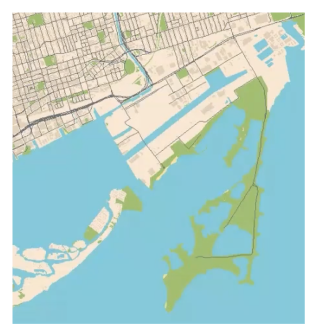
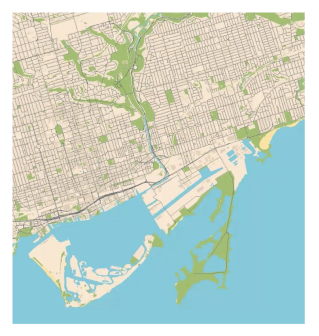
when in rome do as the romans do

diff --git a/src/project-mapping.html b/src/project-mapping.html
@@ -88,7 +88,7 @@
     
     <section class="container mx-auto flex flex-col items-center relative z-10 px-6">
       
-      <h1 class="text-6xl font-semibold text-center">Project Title</h1>
+      <h1 class="text-6xl font-semibold text-center">The Traveller's Atlas</h1>
       
       <!-- <p class="custom-p mt-4 text-2xl text-center max-w-3xl">
         A brief, one-sentence summary of what the project is and what it accomplishes.

diff --git a/src/index.html b/src/index.html
@@ -409,7 +409,7 @@
 
           <div class="project-item">
               <a href="project-mapping.html" style="z-index: 10;">
-                  <img src="kokofish.png" alt="Mapping Project" class="project-image">
+                  <img src="mappp.png" alt="Mapping Project" class="project-image">
               </a>
               <h2 class="project-title">The Traveller's Atlas</h2>
           </div>
